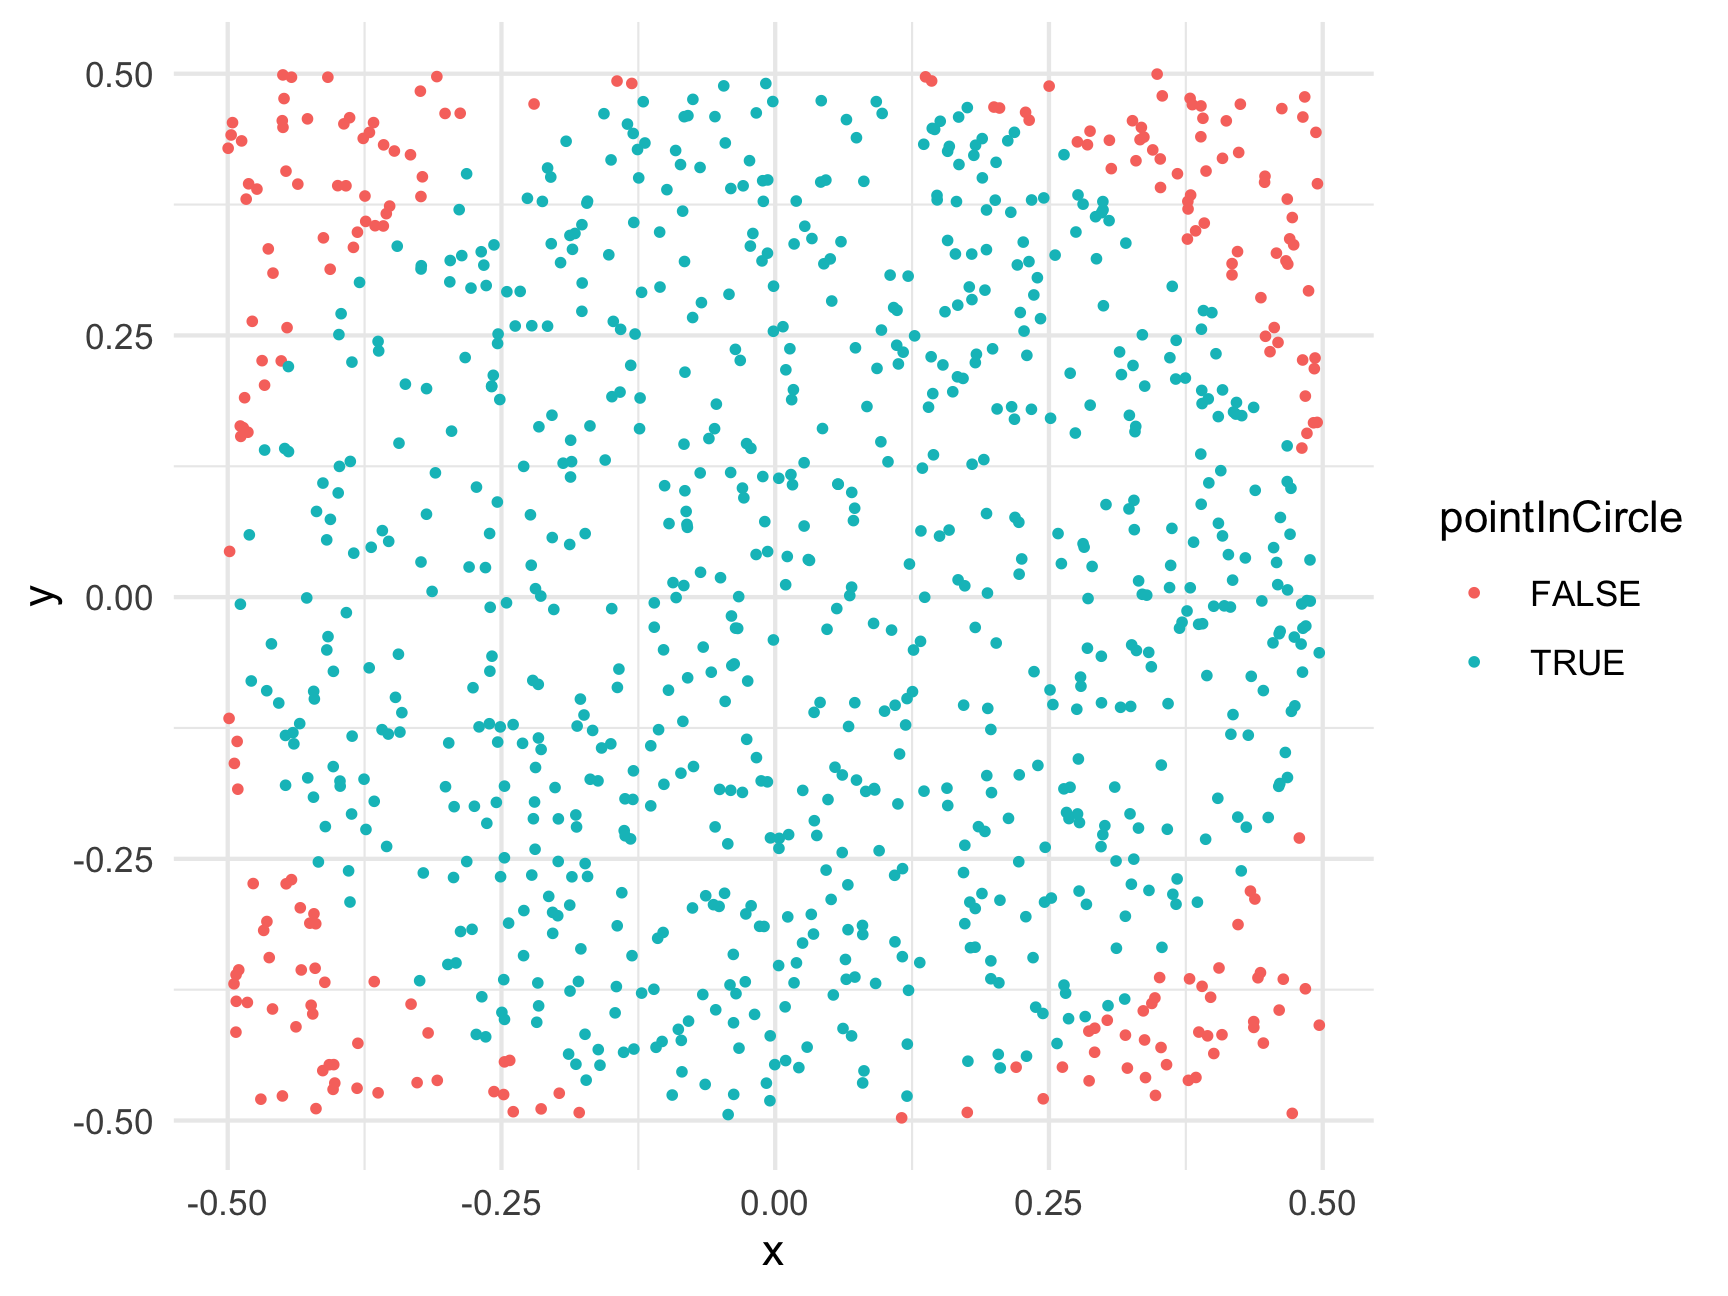
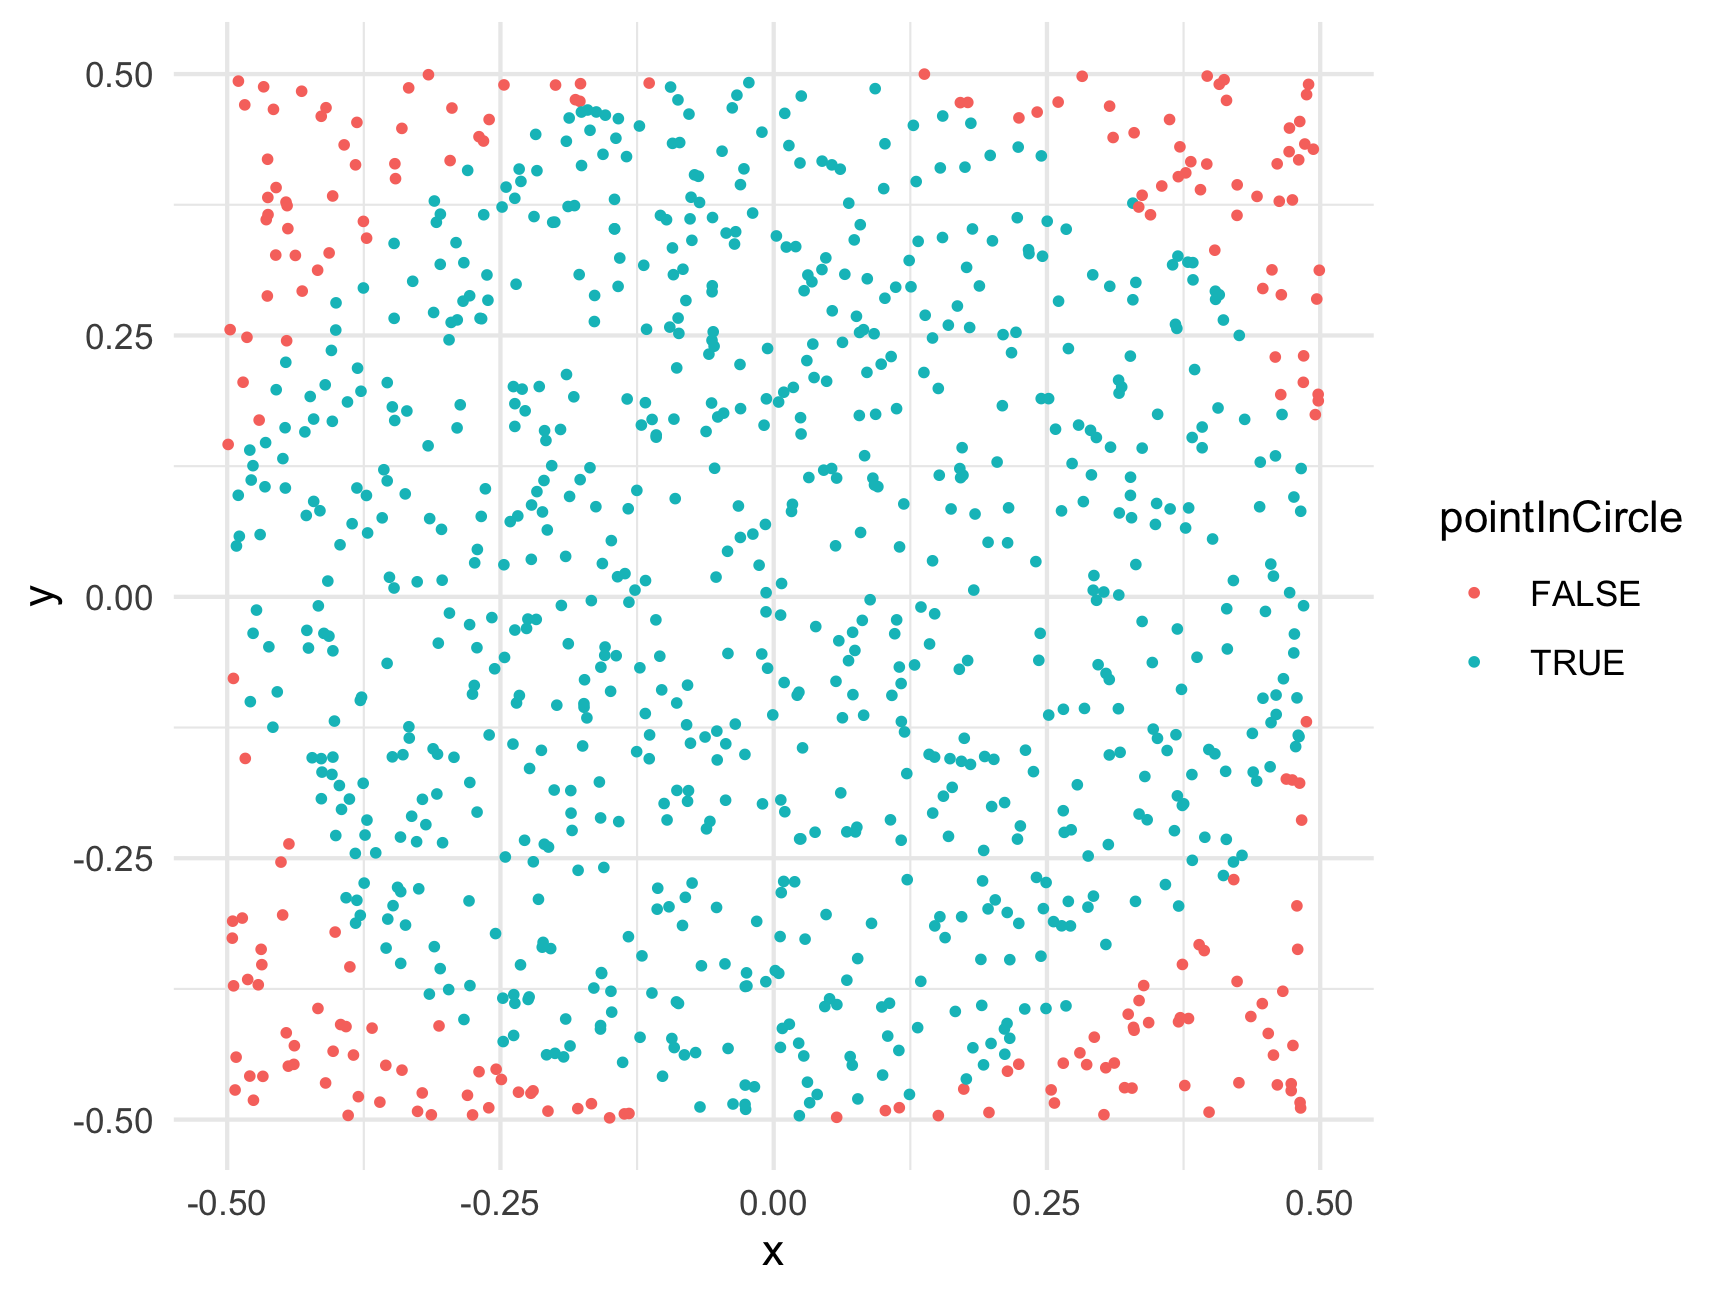
Deploying to gh-pages from  @ 54d6f9dad5031dfb8f00eaa8afaa7648f07ee004 🚀

diff --git a/r13-monte-carlo-methods.html b/r13-monte-carlo-methods.html
@@ -808,11 +808,11 @@ ratio &lt;- sum(belowCurve) / numTrials
 totalArea &lt;- (7 - 3) * 7^2 # Rectangle length x height = 196
 areaUnderCurve &lt;- ratio * totalArea
 areaUnderCurve</code></pre>
-<pre><code>#&gt; [1] 105.1442</code></pre>
-<p>So, using Monte Carlo simulation with 100,000 points, we estimate that the area under the curve is 105.1442. How’d we do? Well, if you’re familiar with calculus, the integral of <span class="math inline">\(f(x) = x^2\)</span> has a closed-form solution (<span class="math inline">\(\frac{x^3}{3} + C\)</span>), so we can check our estimate against the pure-math solution:</p>
+<pre><code>#&gt; [1] 105.2108</code></pre>
+<p>So, using Monte Carlo simulation with 100,000 points, we estimate that the area under the curve is 105.21084. How’d we do? Well, if you’re familiar with calculus, the integral of <span class="math inline">\(f(x) = x^2\)</span> has a closed-form solution (<span class="math inline">\(\frac{x^3}{3} + C\)</span>), so we can check our estimate against the pure-math solution:</p>
 <p><span class="math display">\[\int_{3}^{7} x^2 \mathrm{dx} = \left ( \frac{x^3}{3} \right ) \Big|_3^7 = \frac{7^3}{3} - \frac{3^3}{3} = 105.33\bar{3}\]</span></p>
-<p>So our estimate error is: <code>105.333 -</code> <code>105.1442</code> <code>=</code> <code>0.1891333</code>.</p>
-<p>That’s an error of just 0.18 % - not bad!</p>
+<p>So our estimate error is: <code>105.333 -</code> <code>105.21084</code> <code>=</code> <code>0.1224933</code>.</p>
+<p>That’s an error of just 0.12 % - not bad!</p>
 <hr />
 </div>
 <div id="monte-carlo-pi" class="section level1">
@@ -843,12 +843,12 @@ points &lt;- data.frame(
     y = runif(numTrials, -0.5, 0.5))
 head(points)</code></pre>
 <pre><code>#&gt;             x           y
-#&gt; 1  0.18253814 -0.33441485
-#&gt; 2 -0.24726651 -0.44395949
-#&gt; 3  0.41771920  0.01623423
-#&gt; 4  0.16750771  0.45861383
-#&gt; 5 -0.22280754  0.03046244
-#&gt; 6  0.00952652 -0.44272223</code></pre>
+#&gt; 1  0.24475279  0.18962766
+#&gt; 2 -0.45079278 -0.25370269
+#&gt; 3 -0.13465895  0.42106888
+#&gt; 4 -0.37537778  0.35910602
+#&gt; 5  0.02149092 -0.09409683
+#&gt; 6 -0.06889871  0.40222876</code></pre>
 <p>For this example, we’re putting the points in a data frame to make it easier to work with. Now that we have random x and y points, let’s compute the radius to each point (the distance from <code>(x, y) = (0, 0)</code>) so we can determine which points fall inside the circle (which has a radius of 0.5):</p>
 <pre class="r"><code>library(dplyr)
 points &lt;- points %&gt;%
@@ -865,9 +865,9 @@ ggplot(points) +
 <pre class="r"><code>ratio &lt;- sum(points$pointInCircle) / nrow(points)
 piApprox &lt;- 4 * ratio
 piApprox</code></pre>
-<pre><code>#&gt; [1] 3.104</code></pre>
-<p>So our estimate error is: <code>3.1415 -</code> <code>3.104</code> <code>=</code> <code>-0.0375927</code>.</p>
-<p>That’s an error of just 1.2 % - not bad for only 1,000 points!</p>
+<pre><code>#&gt; [1] 3.16</code></pre>
+<p>So our estimate error is: <code>3.1415 -</code> <code>3.16</code> <code>=</code> <code>0.0184073</code>.</p>
+<p>That’s an error of just 0.59 % - not bad for only 1,000 points!</p>
 <p>To get an even better estimate of <span class="math inline">\(\pi\)</span>, we can increase N. Let’s see what we get with 100,000 trials:</p>
 <pre class="r"><code>numTrials &lt;- 100000
 points &lt;- data.frame(
@@ -879,13 +879,13 @@ points &lt;- data.frame(
 ratio &lt;- sum(points$pointInCircle) / nrow(points)
 piApprox &lt;- 4 * ratio
 piApprox</code></pre>
-<pre><code>#&gt; [1] 3.14624</code></pre>
+<pre><code>#&gt; [1] 3.15812</code></pre>
 <pre class="r"><code># Compute error:
 error &lt;- piApprox - pi
 percentError &lt;- round(100*abs(error / pi), 2)
 percentError</code></pre>
-<pre><code>#&gt; [1] 0.15</code></pre>
-<p>By increasing the number of trials from 1,000 to 100,000, we improved our estimate error from 1.2 % to 0.15 %!</p>
+<pre><code>#&gt; [1] 0.53</code></pre>
+<p>By increasing the number of trials from 1,000 to 100,000, we improved our estimate error from 0.59 % to 0.53 %!</p>
 <hr />
 <p><strong>Page sources</strong>:</p>
 <p>Some content on this page has been modified from other courses, including:</p>

diff --git a/r2-functions-packages.html b/r2-functions-packages.html
@@ -766,7 +766,7 @@ div.tocify {
 <p>Here the letters <code>sqrt</code> are short for “square root,” and the value inside the <code>()</code> is the “argument” to the function. In the example above, the value <code>225</code> is the “argument”.</p>
 <p>Keep in mind that not all functions have (or require) arguments:</p>
 <pre class="r"><code>date() # Returns the current date and time</code></pre>
-<pre><code>#&gt; [1] &quot;Fri Feb 25 15:44:35 2022&quot;</code></pre>
+<pre><code>#&gt; [1] &quot;Sat Feb 26 10:49:02 2022&quot;</code></pre>
 <p>(the date above is the date this page was last built)</p>
 <div id="multiple-arguments" class="section level2">
 <h2>Multiple arguments</h2>
@@ -984,9 +984,9 @@ library(packagename)   # This also works</code></pre>
 <p>Now that you have the package installed on your computer, try loading it using <code>library(wikifacts)</code>, then trying using some of it’s functions:</p>
 <pre class="r"><code>library(wikifacts) # Load the library</code></pre>
 <pre class="r"><code>wiki_randomfact()</code></pre>
-<pre><code>#&gt; [1] &quot;Here&#39;s some news from 04 January 2015. Beji Caid Essebsi wins the Tunisian presidential election. (Courtesy of Wikipedia)&quot;</code></pre>
+<pre><code>#&gt; [1] &quot;Here&#39;s some news from 31 July 2017. Iranian mathematician Maryam Mirzakhani, the first woman to receive the Fields Medal, dies at the age of 40. (Courtesy of Wikipedia)&quot;</code></pre>
 <pre class="r"><code>wiki_didyouknow()</code></pre>
-<pre><code>#&gt; [1] &quot;Did you know that Bach based the first movement of his last cantata for the feast of St. Michael and all angels, Man singet mit Freuden vom Sieg, BWV 149, on the finale of his Hunting Cantata? (Courtesy of Wikipedia)&quot;</code></pre>
+<pre><code>#&gt; [1] &quot;Did you know that Daniel Rump closely modeled the beginning of his Advent song \&quot;Der Morgenstern ist aufgedrungen\&quot; after a Tagelied, a wake-up call for lovers? (Courtesy of Wikipedia)&quot;</code></pre>
 <p>In case you’re wondering, the only thing this package does is generate messages containing random facts from <a href="https://www.wikipedia.org/">Wikipedia</a>.</p>
 </div>
 <div id="using-only-some-package-functions" class="section level2">
@@ -997,7 +997,7 @@ library(packagename)   # This also works</code></pre>
 </blockquote>
 <p>Here I use the name of the <em>package</em> followed by <code>::</code> to tell R that I’m looking for a function that is in that package. For example, if I didn’t want to load the whole <strong>wikifacts</strong> library but still wanted to use the <code>wiki_randomfact()</code> function, I could do this:</p>
 <pre class="r"><code>wikifacts::wiki_randomfact()</code></pre>
-<pre><code>#&gt; [1] &quot;Here&#39;s some news from 04 December 2017. Former Bosnian Croat army general Slobodan Praljak (pictured) dies from intentionally drinking poison after the ICTY upholds his conviction for war crimes. (Courtesy of Wikipedia)&quot;</code></pre>
+<pre><code>#&gt; [1] &quot;Here&#39;s some news from 12 October 2020. The UN World Food Programme is awarded the Nobel Peace Prize for its efforts to combat hunger. (Courtesy of Wikipedia)&quot;</code></pre>
 <p>Where this is particularly handy is when two packages have a function with the same name. If you load both library, R might not know which function to use. In those cases, it’s best to also provide the <strong>package</strong> name. For example, let’s say there was a package called <strong>apples</strong> and another called <strong>bananas</strong>, and each had a function named <code>fruitName()</code>. If I wanted to use each of them in my code, I would need to specify the package names like this:</p>
 <pre class="r"><code>apples::fruitName()
 bananas::fruitName()</code></pre>

diff --git a/c8-midterm-review.html b/c8-midterm-review.html
@@ -11,7 +11,7 @@
 
 
 
-<title>Introduction to Python (in R)</title>
+<title>Midterm Review</title>
 
 <script src="site_libs/jquery-3.6.0/jquery-3.6.0.min.js"></script>
 <meta name="viewport" content="width=device-width, initial-scale=1" />
@@ -655,7 +655,7 @@ $(document).ready(function () {
 
 
 
-<h1 class="title toc-ignore">Introduction to Python (in R)</h1>
+<h1 class="title toc-ignore">Midterm Review</h1>
 
 </div>
 
@@ -674,19 +674,19 @@ $(document).ready(function () {
 <div class="col-md-3">
 <div class="class-buttons">
 <p><strong>SLIDES</strong></p>
-<p><a href=class/8-python/index.html class="btn-slides" target="_blank"><i class="fas fa-external-link-alt"></i> View in new window</a></p>
-<p><a href=class/8-python/8-python.pdf class="btn-slides"><i class="fas fa-file-pdf"></i> Download as PDF</a></p>
+<p><a href=class/8-midterm-review/index.html class="btn-slides" target="_blank"><i class="fas fa-external-link-alt"></i> View in new window</a></p>
+<p><a href=class/8-midterm-review/8-midterm-review.pdf class="btn-slides"><i class="fas fa-file-pdf"></i> Download as PDF</a></p>
 </div>
 </div>
 <div class="col-md-3">
 <div class="class-buttons">
 <p><strong>CLASS PRACTICE</strong></p>
-<p><a href=class/8-python/8-python.zip class="btn-notes"><i class="fas fa-download"></i> Download zip file</a></p>
+<p><a href=class/8-midterm-review/8-midterm-review.zip class="btn-notes"><i class="fas fa-download"></i> Download zip file</a></p>
 </div>
 </div>
 </div>
 <div class="shareagain" style="min-width:300px;margin:1em auto;">
-<iframe src="class/8-python/index.html" width="1600" height="900" style="border:2px solid currentColor;" loading="lazy" allowfullscreen></iframe>
+<iframe src="class/8-midterm-review/index.html" width="1600" height="900" style="border:2px solid currentColor;" loading="lazy" allowfullscreen></iframe>
 <script>fitvids('.shareagain', {players: 'iframe'});</script>
 </div>
 
